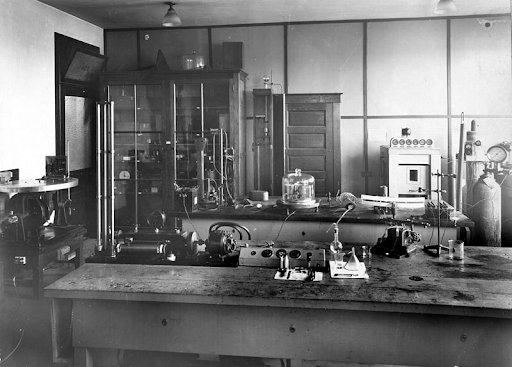
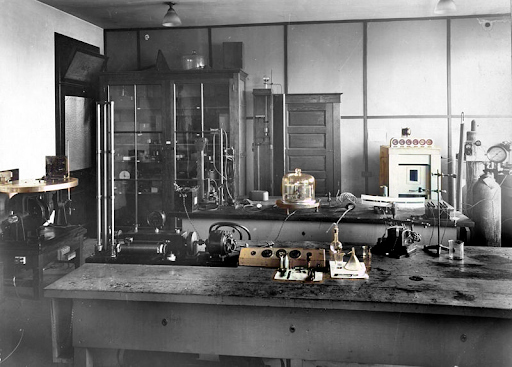
Change lab scence image and shift interaction location of lab tools

diff --git a/sources/GameLoop.js b/sources/GameLoop.js
@@ -45,41 +45,94 @@ function loadMysterySet() {
 
 var rooms = ["Lab", "Study", "Fireplace", "Kitchen"];
 var roomsImg = ["imgs/Lab/Lab.jpg", "imgs/1_ProfessorLogan/rooms/Study.jpg", "imgs/1_ProfessorLogan/rooms/Fireplace.jpg", "imgs/1_ProfessorLogan/rooms/Kitchen.jpg"];
-var roomsObj = [[], [], [], []];
+var roomsObj = [
+    [],
+    [],
+    [],
+    []
+];
 
 var labObjNames = ["FPS", "TLC", "DNA", "BLAST"];
 var labObjImgs = ["imgs/Lab/fps.jpg", "imgs/Lab/tlc.jpg", "imgs/Lab/dna.jpg", "imgs/Lab/blast.jpg"];
-var labObjLocs = [[50,5], [80,50], [45,55], [35,85]];
+var labObjLocs = [
+    [47, 4],
+    [69, 58],
+    [49, 55],
+    [41, 77]
+];
 var labObjClues = [
-            [["FPS"]],
-            [["TLC"]],
-            [["DNA"]],
-            [["BLAST"]]
-                  ];
+    [
+        ["FPS"]
+    ],
+    [
+        ["TLC"]
+    ],
+    [
+        ["DNA"]
+    ],
+    [
+        ["BLAST"]
+    ]
+];
 
 var studyObjNames = ["Book", "Plate", "Pipe", "Teacup"];
 var studyObjImgs = ["imgs/1_ProfessorLogan/items/Book.png", "imgs/1_ProfessorLogan/items/Plate.png", "imgs/1_ProfessorLogan/items/Pipe.png", "imgs/1_ProfessorLogan/items/Teacup.png"];
-var studyObjLocs = [[80,18], [58,70], [80,10], [80,55]];
+var studyObjLocs = [
+    [80, 18],
+    [58, 70],
+    [80, 10],
+    [80, 55]
+];
 var studyObjClues = [
-            [["Kenya", "TextAboutKenya", "description"], ["Rhodesia", "TextAboutRhodesia", "description"]],
-            [["TLC", "PointsToCake", "tlcCollect"], ["FP", "PointsToJeeves","fpsCollect" ]],
-            [["DNA", "DNASeqData", "dnaCollect"], ["FP", "PointsToPlum", "fpsCollect"]],
-            [["DNA", "PointsToLogan", "dnaCollect"], ["FP", "PointsToLogan", "fpsCollect"]]
-                    ];
+    [
+        ["Kenya", "TextAboutKenya", "description"],
+        ["Rhodesia", "TextAboutRhodesia", "description"]
+    ],
+    [
+        ["TLC", "PointsToCake", "tlcCollect"],
+        ["FP", "PointsToJeeves", "fpsCollect"]
+    ],
+    [
+        ["DNA", "DNASeqData", "dnaCollect"],
+        ["FP", "PointsToPlum", "fpsCollect"]
+    ],
+    [
+        ["DNA", "PointsToLogan", "dnaCollect"],
+        ["FP", "PointsToLogan", "fpsCollect"]
+    ]
+];
 
 var fireplaceObjNames = ["Vial", "Photo", "Mask", "Photo1"];
 var fireplaceObjImgs = ["imgs/1_ProfessorLogan/items/Vial.png", "imgs/1_ProfessorLogan/items/Warbuddies.png", "imgs/1_ProfessorLogan/items/Mask.png", "imgs/1_ProfessorLogan/items/Photograph.png"];
-var fireplaceObjLocs = [[50,5], [50,48], [50,85], [50,20]];
+var fireplaceObjLocs = [
+    [50, 5],
+    [50, 48],
+    [50, 85],
+    [50, 20]
+];
 var fireplaceObjClues = [
-            [["DNA", "DNASeqData"]],
-            [["War Buddies", "PointsToMustard"]],
-            [["Mask", "PointsToPeru"]],
-            [["Son", "PointsToSon"]]
-                        ];
+    [
+        ["DNA", "DNASeqData"]
+    ],
+    [
+        ["War Buddies", "PointsToMustard"]
+    ],
+    [
+        ["Mask", "PointsToPeru"]
+    ],
+    [
+        ["Son", "PointsToSon"]
+    ]
+];
 
 var kitchenObjNames = ["Tea"];
 var kitchenObjImgs = ["imgs/1_ProfessorLogan/items/KenyaAjiri.png"];
-var kitchenObjLocs = [[30,80]];
+var kitchenObjLocs = [
+    [30, 80]
+];
 var kitchenObjClues = [
-            [["TLC", "PointsToRicin"], ["DNA", "DNASeqData"]]
-                      ];
+    [
+        ["TLC", "PointsToRicin"],
+        ["DNA", "DNASeqData"]
+    ]
+];

diff --git a/styles/index.css b/styles/index.css
@@ -45,4 +45,5 @@
     height: 4%;
     margin: 0.5% 47.5%;
     z-index: 3;
+    font-size: 2.5vmin;
 }
